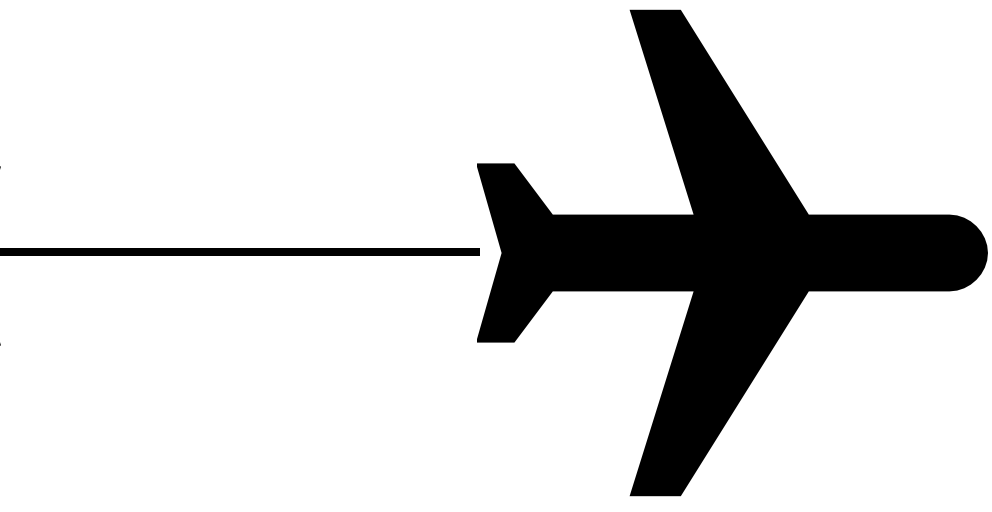
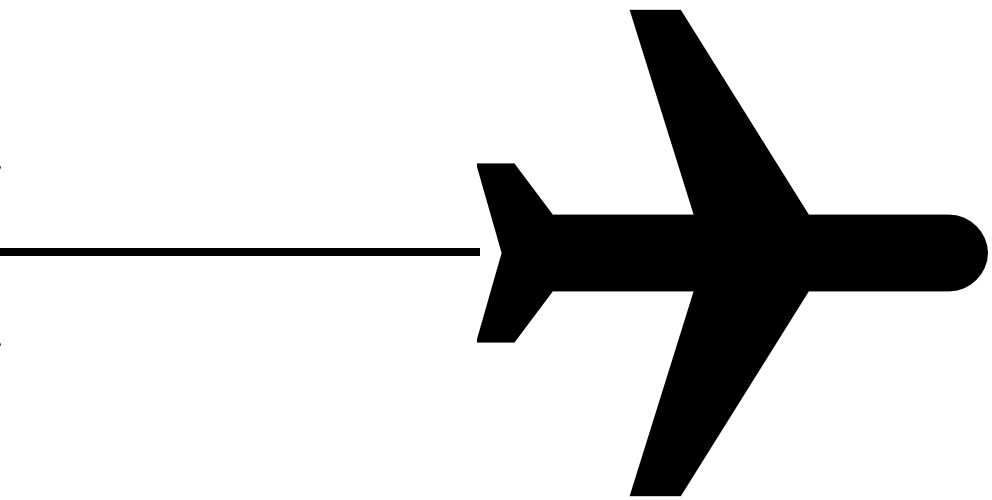
-Image Looped Per Segment

diff --git a/src/components/Results.vue b/src/components/Results.vue
@@ -1,5 +1,5 @@
 <template>
-    <div class="ResultsTable">
+    <div class="ResultsTable" style="padding-top: 20px">
         <div class="section-center">
             <div class="container">
                 <div class="row">
@@ -30,15 +30,19 @@
                                                         <h5 v-for="DDT in segment.segments" :key="DDT" style="margin-bottom: 40px; margin-top: 10px; margin-left: -100px">{{(DDT.duration).substring(2,3)}}H {{(DDT.duration).substring(4,7)}}</h5>
                                                     </template>
                                                 </div>
-                                                <img id="Plane" src="./AirplaneWithLine.png" width="100px" height="50px" style="margin-top: 0px; margin-left: -90px; padding-left: 10px">
-                                                <div class="col-md-2">
+                                                <div class="col-md-2" style="margin-left: -120px">
                                                     <template v-for="segment in flight.itineraries">
-                                                        <h4 v-for="DT in segment.segments" :key="DT" style="padding-bottom: 40px">{{DT.arrival.at.substring(11,16)}}</h4>
+                                                        <img v-for="DDT in segment.segments" :key="DDT" id="Plane" src="./AirplaneWithLine.png" width="70px"  style="margin-top: 0px;padding-bottom: 35px;">
                                                     </template>
                                                 </div>
                                                 <div class="col-md-2">
                                                     <template v-for="segment in flight.itineraries">
-                                                        <h5 v-for="DT in segment.segments" :key="DT" style="margin-left: -315px; padding-bottom: 22px; margin-top: 30px">{{DT.arrival.iataCode}}</h5>
+                                                        <h4 v-for="DT in segment.segments" :key="DT" style="padding-bottom: 40px; margin-left: -70px">{{DT.arrival.at.substring(11,16)}}</h4>
+                                                    </template>
+                                                </div>
+                                                <div class="col-md-2">
+                                                    <template v-for="segment in flight.itineraries">
+                                                        <h5 v-for="DT in segment.segments" :key="DT" style="margin-left: -385px; padding-bottom: 22px; margin-top: 30px">{{DT.arrival.iataCode}}</h5>
                                                     </template>
                                                 </div>
                                                 <div class="col-md-2" style="align-content: center;display: block;margin: auto;">
@@ -81,15 +85,18 @@
             console.log(JSON.stringify(this.flights[0]))
             // console.log(JSON.stringify(this.flights[0].itineraries[0].segments[0].arrival.at).substring(12,20).replace(":","").replace(":",""))
 
+
         }
     }
 </script>
 
 <style scoped>
     @import url('https://fonts.googleapis.com/css?family=Righteous');
+    @import url('https://fonts.googleapis.com/css?family=Oswald');
     *
     .booking-form {
-        font-family: Righteous;
+        font-family: Oswald;
+        font-weight: bold;
         margin-left: 12px;
         background-color: #fff;
         width: 840px;
